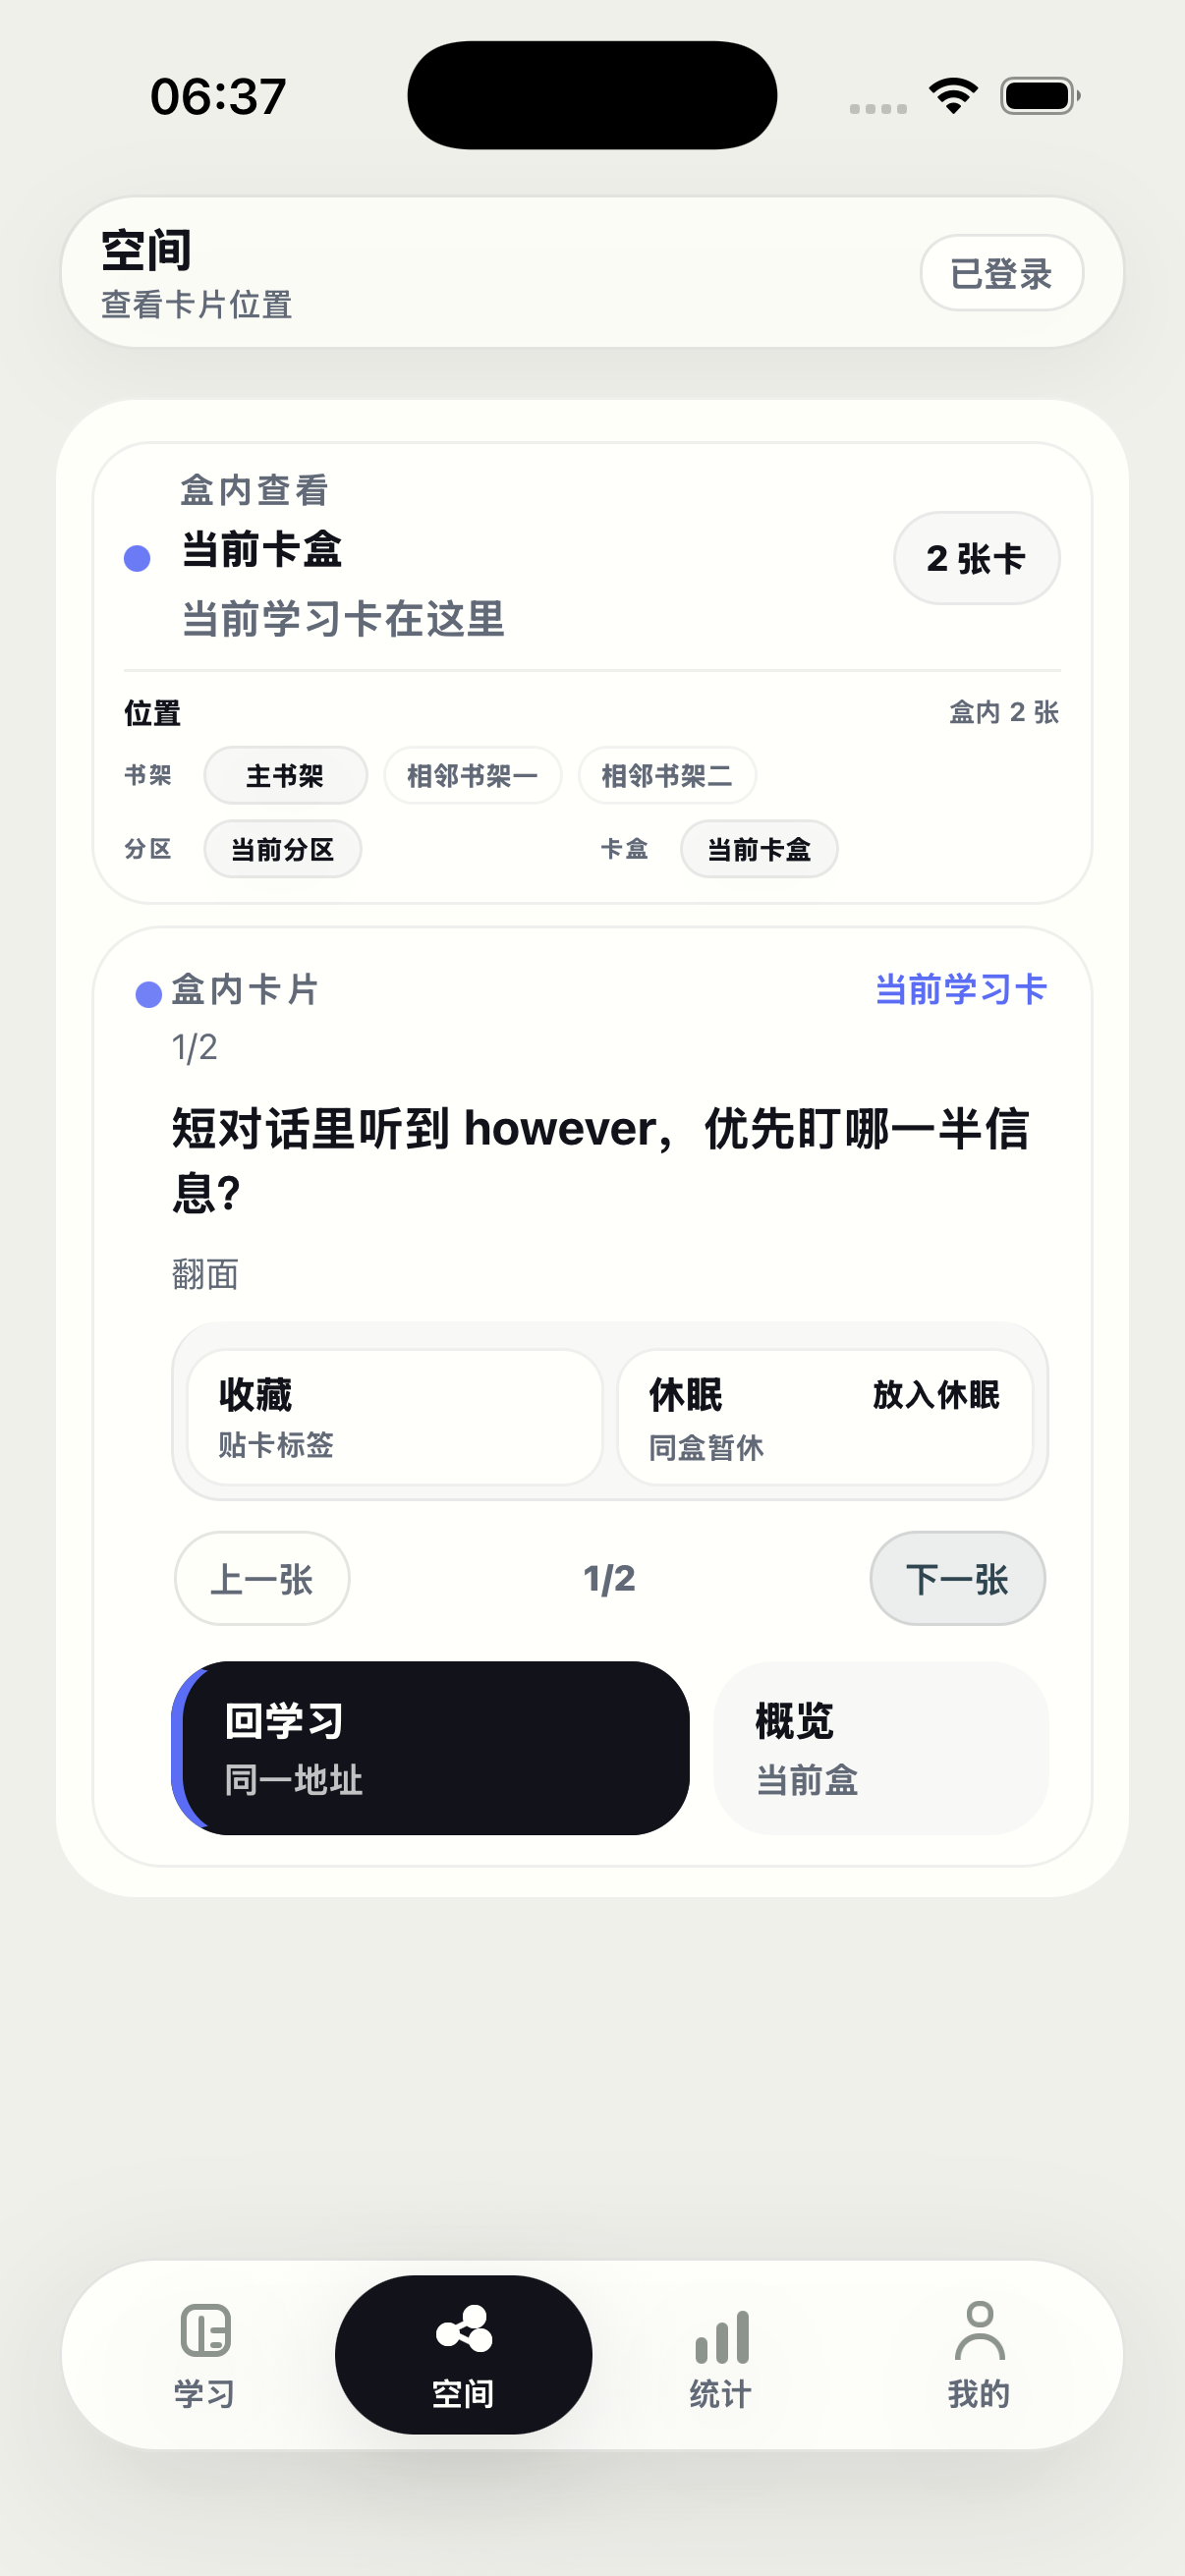
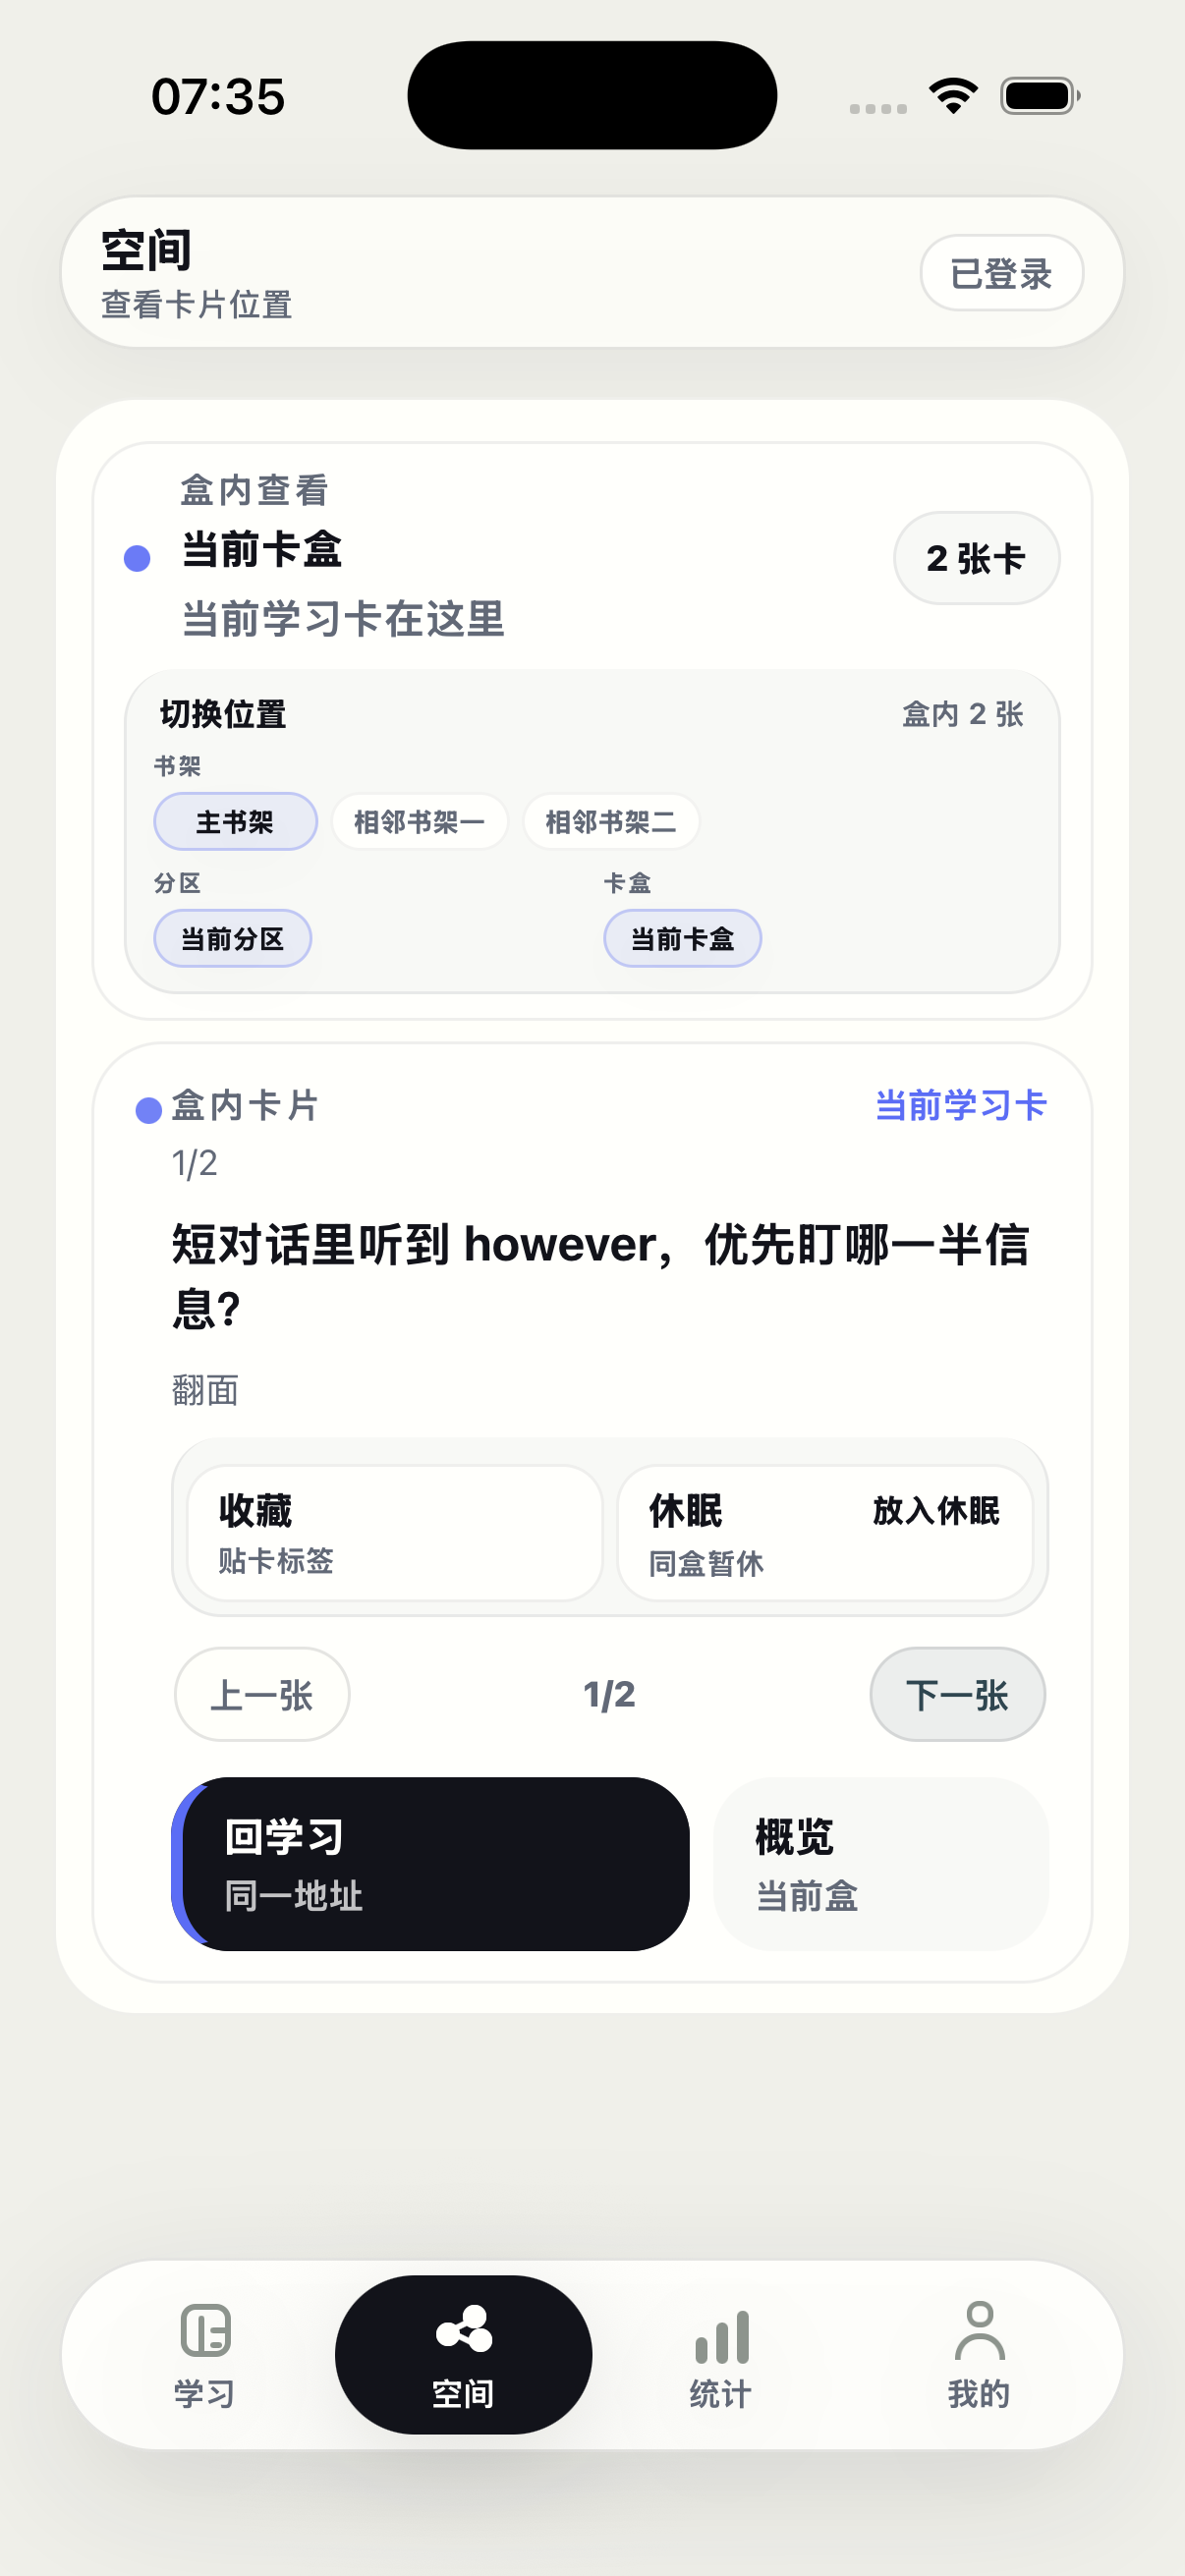
Refine Space browse position dock (#373)

diff --git a/apps/mobile/src/space/SpaceSurface.tsx b/apps/mobile/src/space/SpaceSurface.tsx
@@ -1237,7 +1237,8 @@ export function SpaceSurface({
                       styles.browseRail,
                       styles.browseRailDesk,
                       {
-                        borderTopColor: neutralObjectBorder,
+                        backgroundColor: neutralObjectSurface,
+                        borderColor: neutralObjectBorder,
                       },
                     ]}
                     testID="space-browse-rail"
@@ -1249,7 +1250,7 @@ export function SpaceSurface({
                           { color: palette.text },
                         ]}
                       >
-                        位置
+                        切换位置
                       </Text>
                       <Text
                         style={[
@@ -1301,10 +1302,10 @@ export function SpaceSurface({
                                   isActive ? styles.browseRailChipActive : null,
                                   {
                                     backgroundColor: isActive
-                                      ? neutralObjectSurface
+                                      ? hexToRgba(selectedTone.accent, 0.09)
                                       : solidPanelStrong,
                                     borderColor: isActive
-                                      ? neutralObjectBorder
+                                      ? hexToRgba(selectedTone.accent, 0.28)
                                       : hexToRgba(palette.textMuted, 0.08),
                                   },
                                 ]}
@@ -1366,10 +1367,10 @@ export function SpaceSurface({
                                   isActive ? styles.browseRailChipActive : null,
                                   {
                                     backgroundColor: isActive
-                                      ? neutralObjectSurface
+                                      ? hexToRgba(selectedTone.accent, 0.09)
                                       : solidPanelStrong,
                                     borderColor: isActive
-                                      ? neutralObjectBorder
+                                      ? hexToRgba(selectedTone.accent, 0.28)
                                       : hexToRgba(palette.textMuted, 0.08),
                                   },
                                 ]}
@@ -1425,10 +1426,10 @@ export function SpaceSurface({
                                   isActive ? styles.browseRailChipActive : null,
                                   {
                                     backgroundColor: isActive
-                                      ? neutralObjectSurface
+                                      ? hexToRgba(selectedTone.accent, 0.09)
                                       : solidPanelStrong,
                                     borderColor: isActive
-                                      ? neutralObjectBorder
+                                      ? hexToRgba(selectedTone.accent, 0.28)
                                       : hexToRgba(palette.textMuted, 0.08),
                                   },
                                 ]}
@@ -2508,44 +2509,46 @@ const styles = StyleSheet.create({
     lineHeight: 15,
   },
   browseRail: {
-    borderTopWidth: 1,
-    gap: 5,
-    paddingHorizontal: 0,
-    paddingTop: 7,
+    borderRadius: 18,
+    borderTopWidth: 0,
+    borderWidth: 1,
+    gap: 6,
+    paddingHorizontal: 9,
+    paddingVertical: 8,
   },
   browseRailDesk: {
-    gap: 5,
-    paddingVertical: 0,
+    gap: 6,
   },
   browseRailTitleRow: {
     alignItems: 'center',
     flexDirection: 'row',
     justifyContent: 'space-between',
+    paddingHorizontal: 2,
   },
   browseRailTitle: {
-    fontSize: 10,
+    fontSize: 11,
     fontWeight: '900',
-    lineHeight: 13,
+    lineHeight: 14,
   },
   browseRailHint: {
-    fontSize: 9,
+    fontSize: 10,
     fontWeight: '700',
-    lineHeight: 12,
+    lineHeight: 13,
   },
   browseRailShelfRow: {
-    gap: 4,
+    gap: 3,
   },
   browseRailLevel: {
-    alignItems: 'center',
-    flexDirection: 'row',
-    gap: 5,
+    alignItems: 'stretch',
+    flexDirection: 'column',
+    gap: 4,
   },
   browseRailShelfLevel: {
-    alignItems: 'center',
+    alignItems: 'stretch',
   },
   browseRailPairRow: {
     flexDirection: 'row',
-    gap: 5,
+    gap: 7,
   },
   browseRailLevelHalf: {
     flex: 1,
@@ -2554,20 +2557,18 @@ const styles = StyleSheet.create({
     fontSize: 8,
     fontWeight: '900',
     letterSpacing: 0.7,
-    width: 22,
   },
   browseRailRow: {
-    flex: 1,
     flexDirection: 'row',
     flexWrap: 'wrap',
-    gap: 5,
+    gap: 4,
   },
   browseRailChip: {
     alignItems: 'center',
     borderRadius: 999,
     borderWidth: 1,
     minWidth: 56,
-    paddingHorizontal: 7,
+    paddingHorizontal: 8,
     paddingVertical: 3,
   },
   browseRailChipSmall: {

diff --git a/apps/mobile/__tests__/SpaceSurface.test.tsx b/apps/mobile/__tests__/SpaceSurface.test.tsx
@@ -292,6 +292,13 @@ test('uses anonymous ordered selector IDs for Space library and group chips in t
   expect(
     root.findAllByProps({ testID: 'space-browse-rail' }).length,
   ).toBeGreaterThan(0);
+  const browseRailStyle = StyleSheet.flatten(
+    root.findByProps({ testID: 'space-browse-rail' }).props.style,
+  );
+  expect(browseRailStyle.borderWidth).toBe(1);
+  expect(browseRailStyle.borderTopWidth).toBe(0);
+  expect(browseRailStyle.borderRadius).toBeGreaterThanOrEqual(18);
+  expect(browseRailStyle.paddingHorizontal).toBeGreaterThanOrEqual(8);
   expect(
     root.findAllByProps({ testID: 'space-browse-card-continuity' }).length,
   ).toBeGreaterThan(0);
@@ -318,7 +325,7 @@ test('uses anonymous ordered selector IDs for Space library and group chips in t
   expect(renderedText).not.toContain(currentCard.space_metadata.box);
   expect(renderedText).not.toContain(currentCard.space_metadata.box_ref);
   expect(renderedText).toContain('盒内查看');
-  expect(renderedText).toContain('位置');
+  expect(renderedText).toContain('切换位置');
   expect(renderedText).toContain('2 张卡');
   expect(renderedText).toContain('盒内 2 张');
   expect(renderedText).toContain('贴卡标签');

diff --git a/docs/agent-runs/2026-07-06-space-browse-position-dock.md b/docs/agent-runs/2026-07-06-space-browse-position-dock.md
@@ -1,0 +1,116 @@
+# 2026-07-06 Space Browse Position Dock
+
+## 当前任务引用的 spec
+
+- `spec/requirement-memory.json`
+- `spec/product-core.json`
+- `spec/knowledge-map.json`
+- `spec/space-operations.json`
+- `spec/box-catalog.json`
+- `spec/visual-language.json`
+- `docs/design/canon.md`
+- `docs/design/design-harness.md`
+- `docs/design/decisions/mobile-core-surface-reset-v1.md`
+- `docs/design/mocks/mobile-core-surface-reset-v1.html`
+- `docs/design/mapping/mobile-core-surface-reset-implementation-map-v1.md`
+- `docs/design/physical-space/space-model-v1.md`
+- `docs/design/mocks/space-surface-visual-proof-v1.md`
+- `docs/design/mocks/space-surface-shelf-desk-v1.md`
+- `docs/design/mocks/space-surface-visual-refinement-v1.md`
+- `docs/design/mapping/learning-space-implementation-map-v1.md`
+- `spec/runtime-boundaries.json`
+- `spec/repo-delivery-contract.json`
+- `spec/agent-run-record.json`
+- `spec/evals.json`
+
+## Product Truth
+
+- Space is a top-level physical-space surface, not a generic card list, settings table, or arbitrary organizer.
+- Users must be able to inspect the `library -> group -> box -> card` hierarchy and understand where the current learning card lives.
+- Favorite is a tag on the card object. Sleep is a same-box physical state that affects the Learning flow.
+- Space must keep a return path to Learning from the current physical context.
+
+## Implementation Hypothesis
+
+- The card-list layer should render its library/group/box controls as an attached position dock instead of a bare form-like selector area.
+- The current selected path should be marked with the Space accent inside the dock; inactive adjacent shelves/groups/boxes remain quiet controls.
+- Selector behavior, ordered test IDs, favorite, sleep, pager, and Learning return handlers are unchanged.
+
+## 变更摘要
+
+- `apps/mobile/src/space/SpaceSurface.tsx`
+  - Renames the card-list selector label from `位置` to `切换位置`.
+  - Wraps the selector area in a bordered rounded dock with a soft surface.
+  - Moves selector rows into compact column groups so they read as path switching, not a form.
+  - Uses the active Space accent for current library/group/box chips.
+- `apps/mobile/__tests__/SpaceSurface.test.tsx`
+  - Locks `space-browse-rail` as a rounded bordered dock.
+  - Updates visible-copy expectation for `切换位置`.
+- `docs/design/app-screenshots/current-real-app/space-browse.png`
+- `docs/design/app-screenshots/current-real-app/dark/space-browse.png`
+  - Updated with real iOS simulator screenshots.
+
+## 真实截图
+
+- Light: `docs/design/app-screenshots/current-real-app/space-browse.png`
+- Dark: `docs/design/app-screenshots/current-real-app/dark/space-browse.png`
+- Both screenshots are 1206 x 2622 real iPhone 17 Pro simulator captures.
+
+## 验证
+
+- `npm exec prettier -- --write src/space/SpaceSurface.tsx __tests__/SpaceSurface.test.tsx` from `apps/mobile` -> passed.
+- `npm test -- --runInBand --watchAll=false __tests__/SpaceSurface.test.tsx --testNamePattern="uses anonymous ordered selector IDs for Space library and group chips in the card list layer|switches visible Space card objects when group and box selection changes|keeps current card continuity visible in Space"` from `apps/mobile` -> passed; pretest metadata leak scan passed.
+- `maestro --device 9B086605-1D68-40C4-A849-D0DFF42468ED test apps/mobile/e2e/maestro/ios-space-browse-screenshot.yaml` -> passed in light and dark.
+- `xcrun simctl io 9B086605-1D68-40C4-A849-D0DFF42468ED screenshot docs/design/app-screenshots/current-real-app/space-browse.png` -> saved light Space browse screenshot.
+- `xcrun simctl io 9B086605-1D68-40C4-A849-D0DFF42468ED screenshot docs/design/app-screenshots/current-real-app/dark/space-browse.png` -> saved dark Space browse screenshot.
+- `sips -g pixelWidth -g pixelHeight docs/design/app-screenshots/current-real-app/space-browse.png docs/design/app-screenshots/current-real-app/dark/space-browse.png` -> passed, both 1206 x 2622.
+- `git diff --check` -> passed.
+- `python3 scripts/validate_maestro_selectors.py` -> passed.
+- `npm run metadata-leak-scan` from `apps/mobile` -> passed.
+- `npm run lint -- --quiet` from `apps/mobile` -> passed.
+- `npm run typecheck` from `apps/mobile` -> passed.
+- `npm test -- --runInBand --watchAll=false` from `apps/mobile` -> passed, 26 suites / 163 tests; expected mocked sync warning logs only.
+- `npm test` from `infra/cloudbase/functions/softbook-api` -> passed, 11 tests.
+- `python3 scripts/validate_harness.py --skip-remote-guard` -> passed.
+- `python3 scripts/validate_harness.py` -> passed.
+- `maestro --device 9B086605-1D68-40C4-A849-D0DFF42468ED test -e SOFTBOOK_CET_MAESTRO_PHONE=[phone redacted] -e SOFTBOOK_CET_MAESTRO_CODE=2468 apps/mobile/e2e/maestro/ios-remote-smoke.yaml` after a temp `clearState` launch flow -> passed.
+
+## Design Source And Mapping
+
+- Design source: `docs/design/decisions/mobile-core-surface-reset-v1.md`, `docs/design/mocks/mobile-core-surface-reset-v1.html`, `docs/design/mapping/mobile-core-surface-reset-implementation-map-v1.md`, `docs/design/physical-space/space-model-v1.md`, `docs/design/mocks/space-surface-visual-proof-v1.md`, `docs/design/mocks/space-surface-shelf-desk-v1.md`, `docs/design/mocks/space-surface-visual-refinement-v1.md`, `docs/design/mapping/learning-space-implementation-map-v1.md`, `docs/design/canon.md`, and `spec/visual-language.json`.
+- Implementation mapping: Space card-list address shelf -> `space-address-shelf`; position dock -> `space-browse-rail`; current box tray -> `space-current-box-tray`; contained card object -> `space-contained-card-strip` / `space-browse-card-object`; favorite tag -> `space-favorite-*`; sleep state -> `space-sleep-*`; Learning return -> `space-return-learning`.
+- Interaction/motion source: N/A. This run does not add a new interaction family or motion behavior.
+- Physical-space source: `spec/knowledge-map.json`, `spec/space-operations.json`, `docs/design/physical-space/space-model-v1.md`, and `docs/design/mapping/learning-space-implementation-map-v1.md`.
+
+## Design Review Checklist
+
+- Q1 Law of One: Space browse keeps one current Space accent for selected path chips and the card object marker. No competing library color system was introduced.
+- Q2 Focal object: The first-read path is route chrome -> current box object -> attached position dock -> contained card object -> card state controls -> Learning return.
+- Q3 Silhouette: The screen remains a physical Space box/card object, not a flat list, generic selector form, or long scrolling settings page.
+- Q4 Forbidden patterns: Real light/dark screenshots show no visible metadata, agent, harness, debug, runtime, repo, endpoint, payload, fixture, seed, TODO, raw exception, gradient text, gamification chrome, full-width tabbar, serif, removed self-assess token, or internal implementation copy.
+- Q5 Layout containment: Real iPhone 17 Pro screenshots confirm the position dock, contained card, action tray, pager, Learning return, overview action, and floating tabbar fit without clipped text, overlap, horizontal overflow, or safe-area collision.
+- Q6 Surface-specific: Space preserves library/group/box/card hierarchy, favorite-as-tag semantics, sleep-zone semantics, and Learning return continuity.
+- AP-22: This checklist is answered before PR delivery with real simulator screenshot evidence.
+- AP-23: This run does not alter flip self-assess; the canonical two-state model remains `有把握` = mint/confident and `再回看` = amber/review.
+- VL-AP-07: Satisfied by this checklist and by refreshed current-real-app screenshots.
+
+## Agent Review
+
+- Reviewer: Codex
+- Review status: passed
+- Blocking findings: none
+- Review summary: The change is scoped to Space browse position dock presentation. It preserves selector IDs and behavior while improving the visible app-object grammar.
+
+## 用户可见影响
+
+- Yes. The Space box-inspect screen now presents library/group/box switching as an attached position dock instead of a bare form-like location area.
+- No auth, learning, statistics, Mine, membership, card content, favorite behavior, sleep behavior, or sync contract changed.
+
+## Card Make 外部工作区影响
+
+- N/A. This run did not touch `/Users/lenkin/programing/card make`, card candidate content, approvals, imports, or exported payloads.
+
+## 未实现 Gap
+
+- This PR does not claim the full app is finished.
+- Smaller phone widths, tablet containment, dynamic type, gated Space browse, empty-box browse, and sleeping-active screenshots remain follow-up evidence.